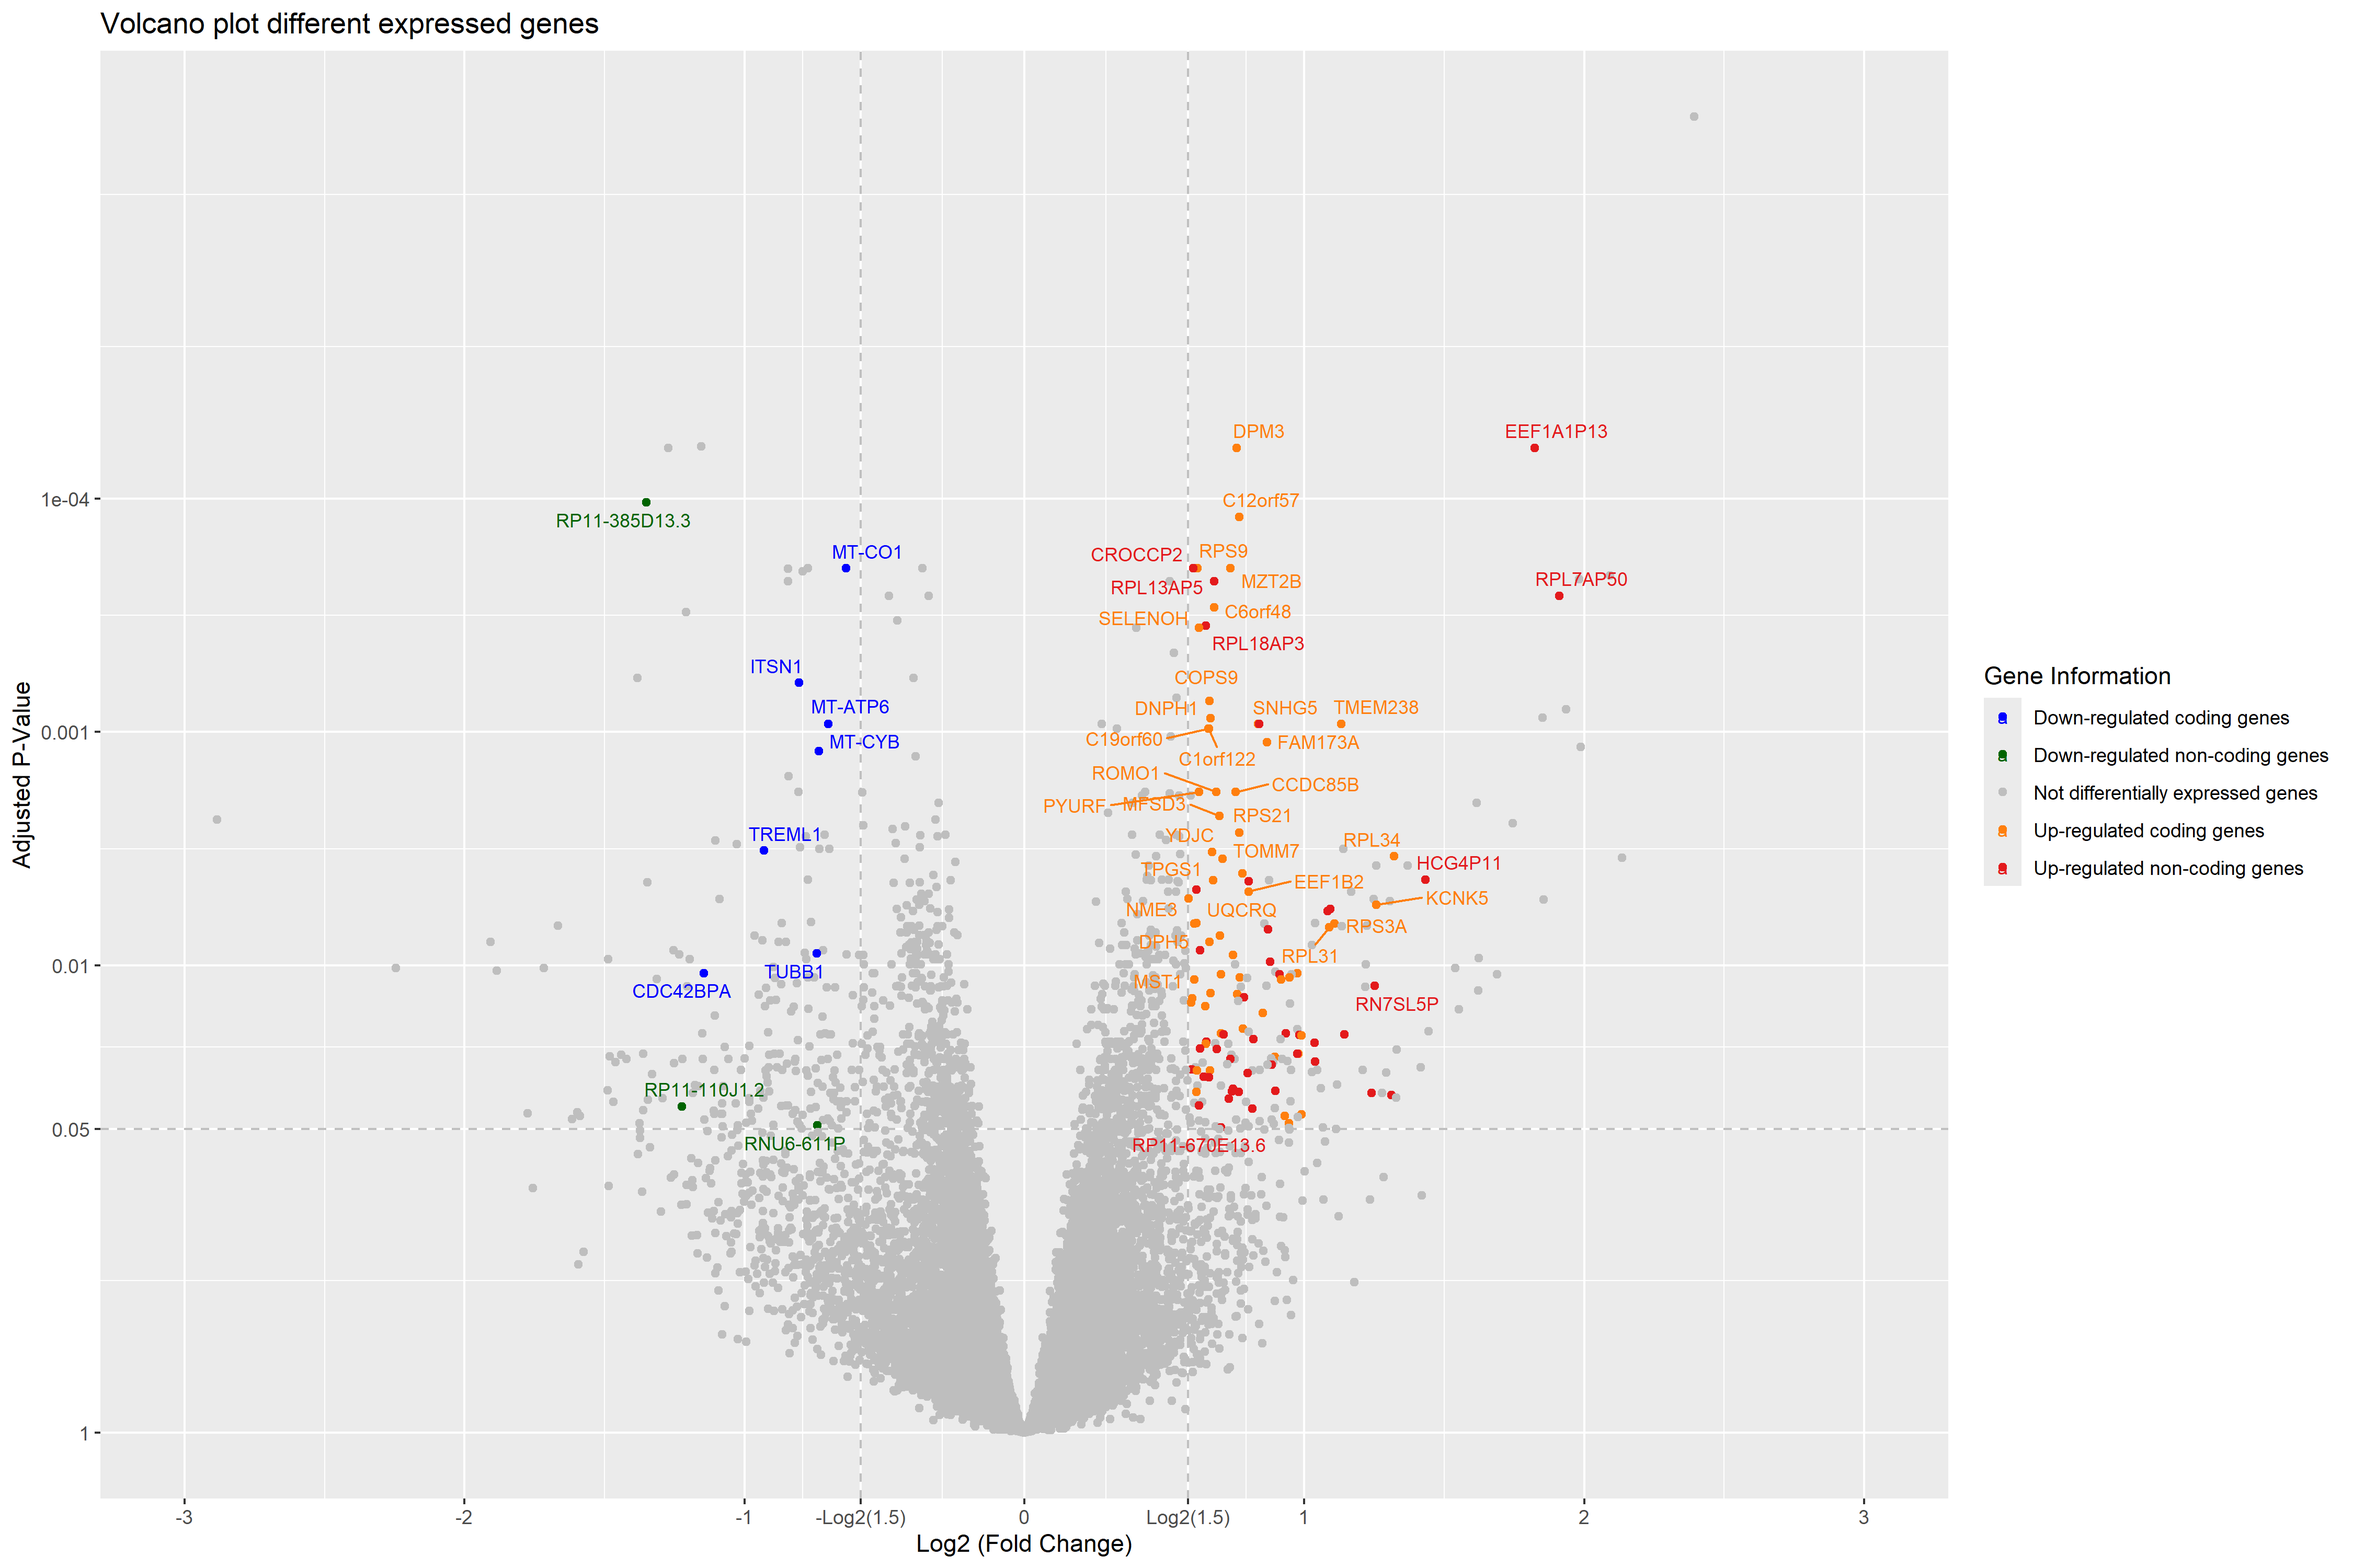
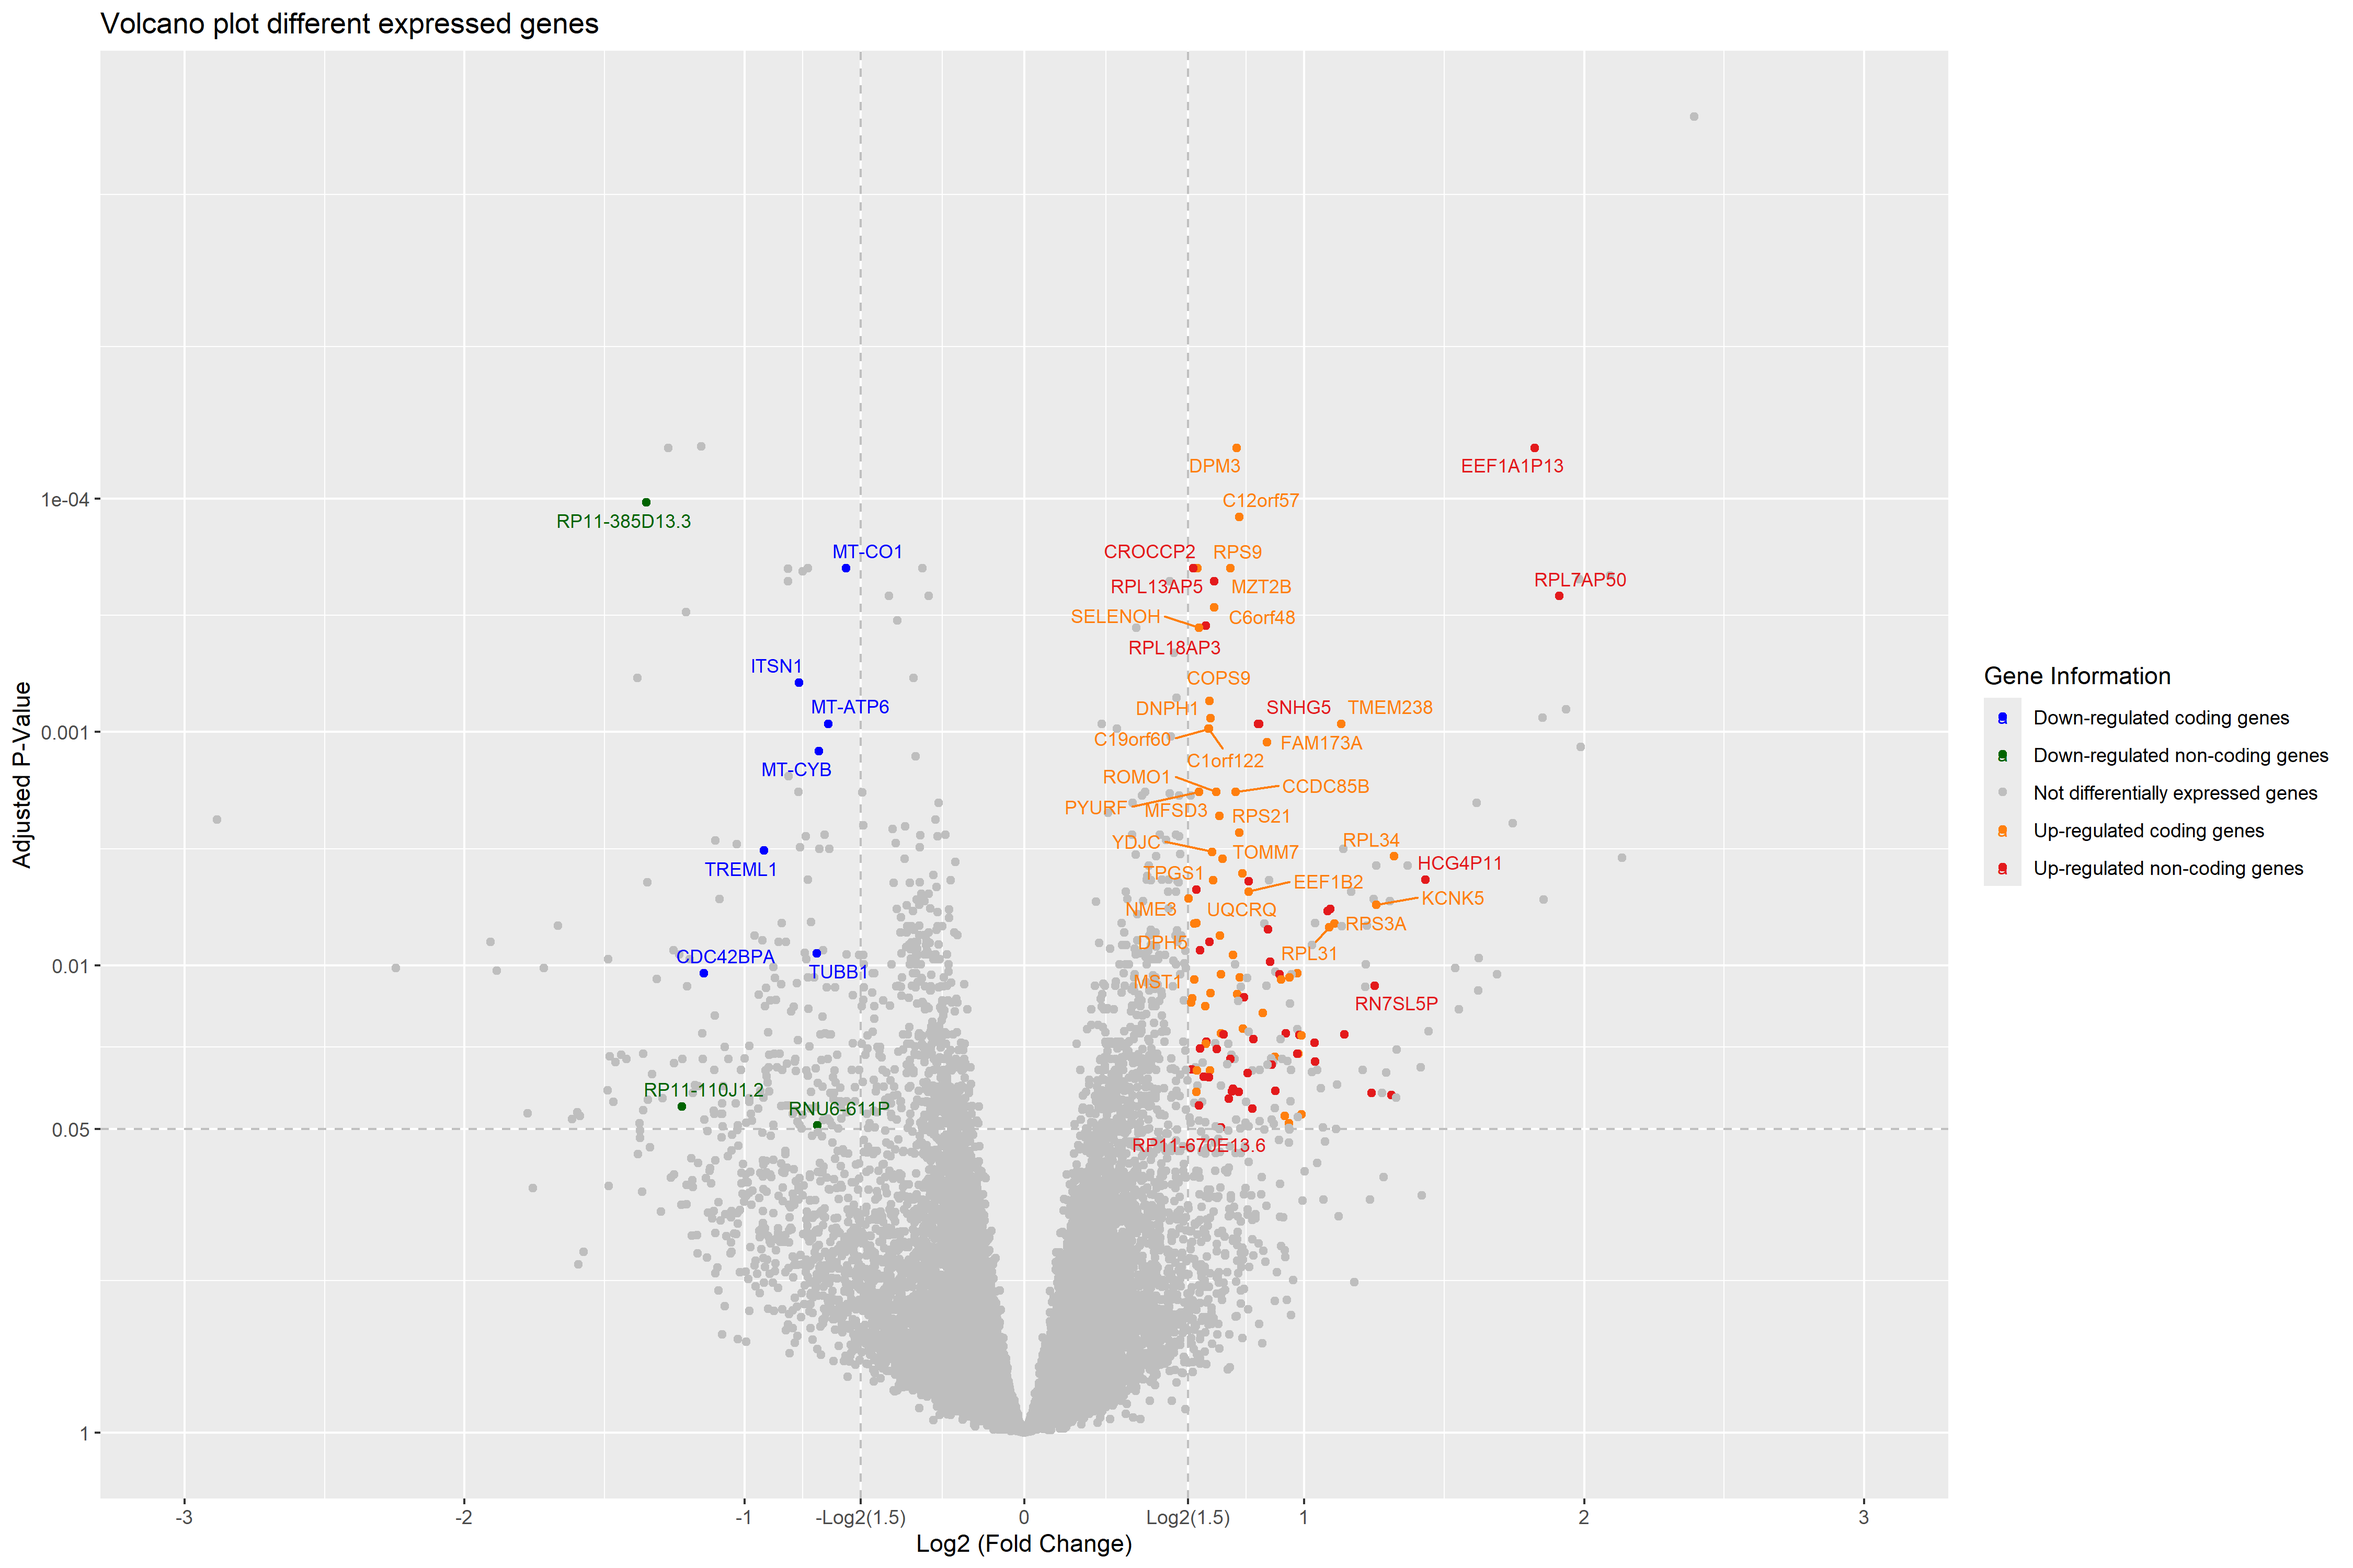
Made sure every file has the correct subset of non-coding and coding due to old lists in there

diff --git a/data/merge_data.py b/data/merge_data.py
@@ -73,7 +73,7 @@ def merge_data(data_deseq, data_limma, data_edger, biotype):
         merged_dataset_genes.to_excel(writer, index=False)
 
 COLUMN_NAME = "Row.names"
-NON_CODING_BIOTYPES = ["processed_transcript", "ribozyme", "unitary_pseudogene", "unprocessed_pseudogene", "processed_pseudogene", "transcribed_unprocessed_pseudogene", "antisense", "transcribed_unitary_pseudogene", "polymorphic_pseudogene", "lincRNA", "sense_intronic", "transcribed_processed_pseudogene", "sense_overlapping", "IG_V_pseudogene", "pseudogene", "3prime_overlapping_ncRNA", "bidirectional_promoter_lncRNA", "snRNA", "miRNA", "misc_RNA", "snoRNA", "rRNA", "Mt_tRNA", "Mt_rRNA", "TR_V_pseudogene", "TR_J_pseudogene", "IG_C_pseudogene", "IG_J_pseudogene", "scRNA", "scaRNA", "vaultRNA", "sRNA", "macro_lncRNA", "non_coding", "IG_pseudogene"]
+NON_CODING_BIOTYPES =  ["unitary_pseudogene", "unprocessed_pseudogene", "processed_pseudogene", "transcribed_unprocessed_pseudogene", "antisense", "transcribed_unitary_pseudogene", "polymorphic_pseudogene", "lincRNA", "sense_intronic", "transcribed_processed_pseudogene", "sense_overlapping", "IG_V_pseudogene", "pseudogene", "3prime_overlapping_ncRNA", "bidirectional_promoter_lncRNA", "snRNA", "miRNA", "misc_RNA", "snoRNA", "rRNA", "Mt_tRNA", "Mt_rRNA", "TR_V_pseudogene", "TR_J_pseudogene", "IG_C_pseudogene", "IG_J_pseudogene", "scRNA", "scaRNA", "vaultRNA", "sRNA", "macro_lncRNA", "non_coding", "IG_pseudogene", "processed_transcript", "ribozyme"]
 CODING_BIOTYPES = ["IG_D_gene", "protein_coding", "TR_V_gene", "IG_V_gene", "IG_C_gene", "IG_J_gene", "TR_J_gene", "TR_C_gene", "TR_D_gene", "TEC"]
 
 deseq = pd.read_csv(f"./DESeq2/All_GENES_DESeq2_RNA_SEQ.csv", index_col=1)
